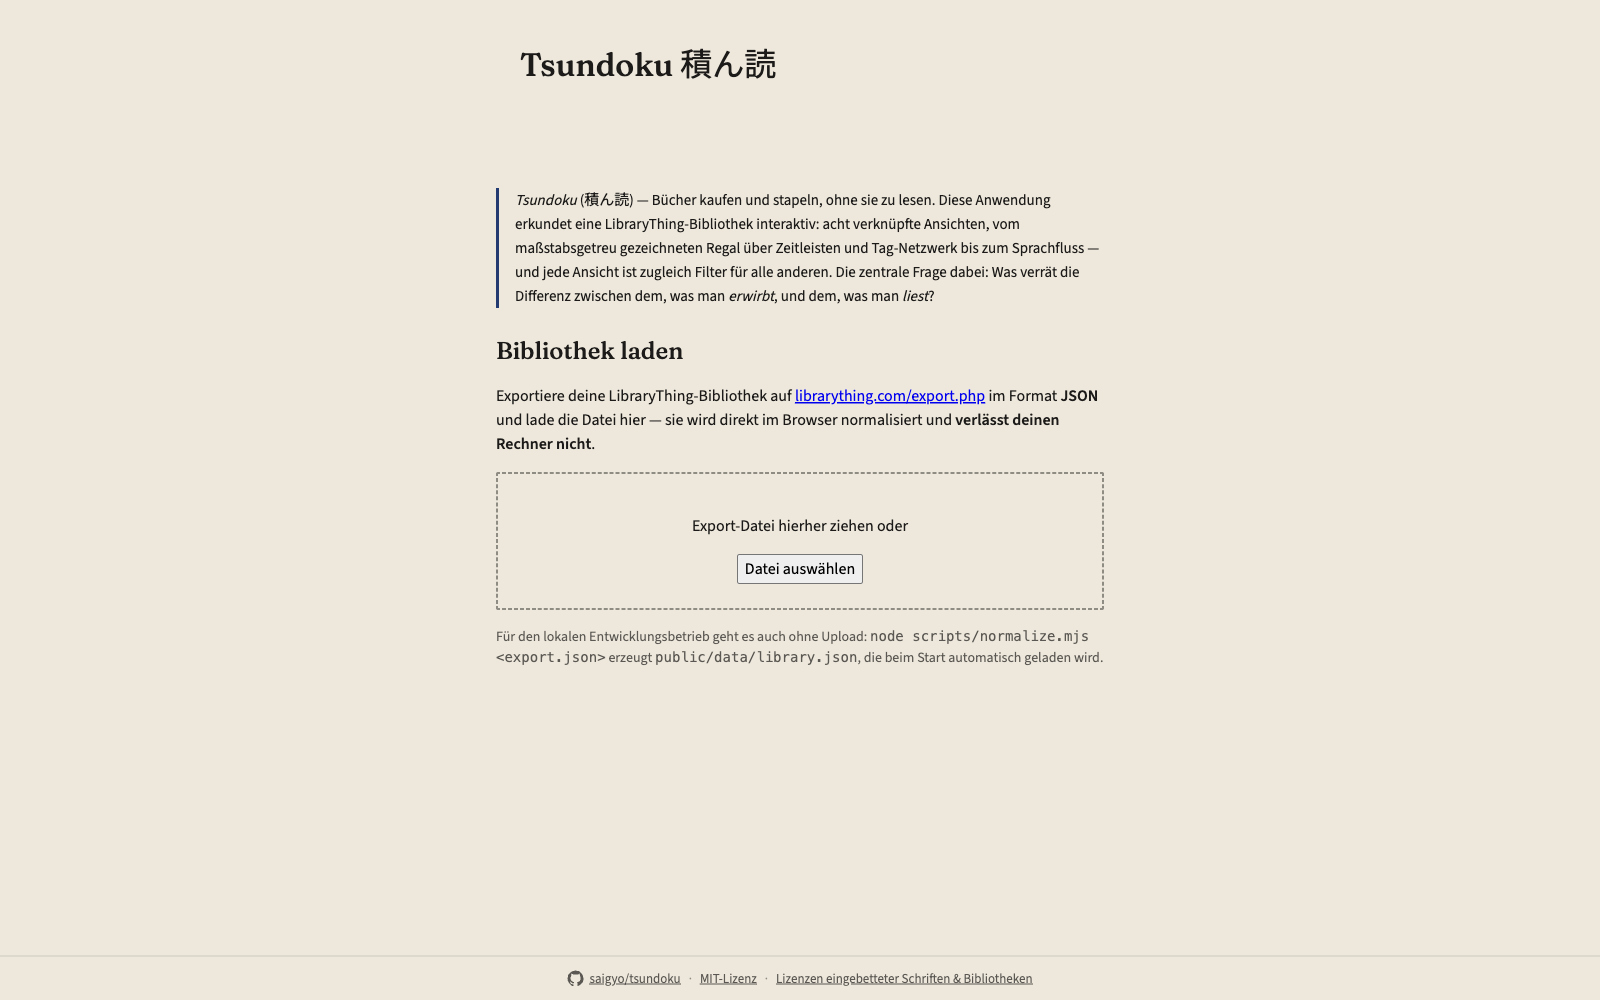
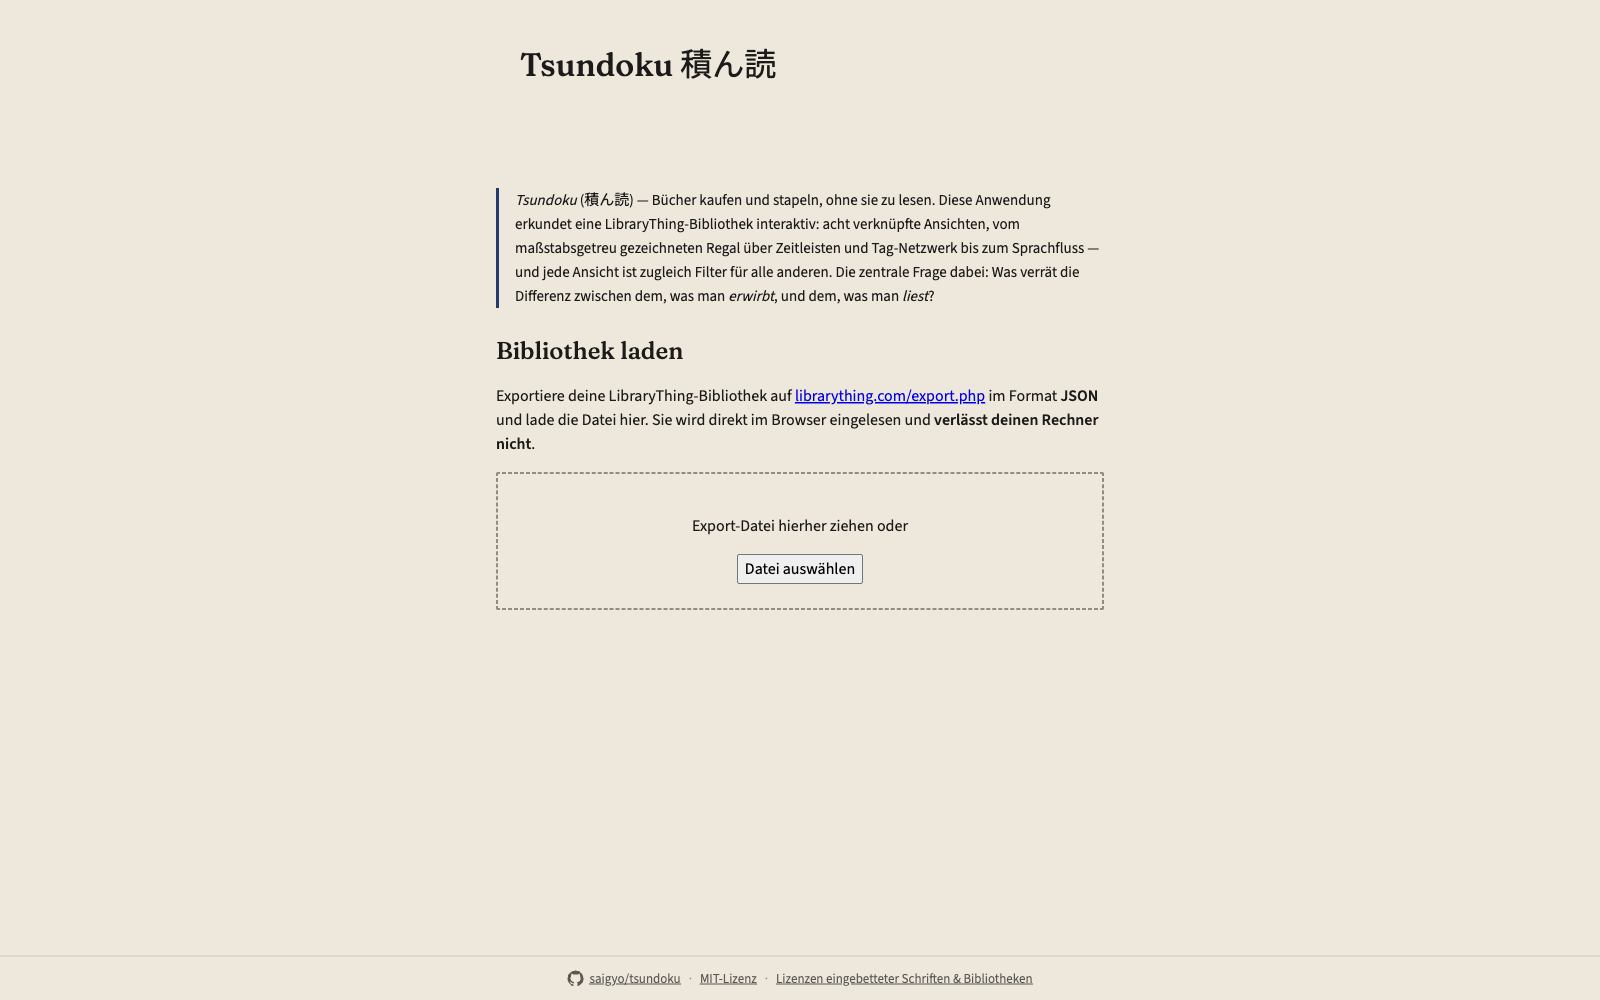
fix: Begrüßungsseite ohne Jargon und ohne Entwickler-Hinweis
'normalisiert' wird 'eingelesen'; der Hinweis auf den lokalen
Entwicklungsbetrieb entfällt — er steht in der README. Screenshot in
der README entsprechend erneuert.

Claude-Session: https://claude.ai/code/session_01F4fjRtBP7VWSwbD4CFKadP

Changed region(s): [[0.3125, 0.62, 0.6875, 0.682], [0.4062, 0.403, 0.6875, 0.434], [0.3125, 0.434, 0.375, 0.465]]

diff --git a/src/components/DataUpload.tsx b/src/components/DataUpload.tsx
@@ -135,8 +135,8 @@ export function DataUpload({
         <a href="https://www.librarything.com/export.php" target="_blank" rel="noopener noreferrer">
           librarything.com/export.php
         </a>{' '}
-        im Format <strong>JSON</strong> und lade die Datei hier — sie wird direkt im Browser
-        normalisiert und <strong>verlässt deinen Rechner nicht</strong>.
+        im Format <strong>JSON</strong> und lade die Datei hier. Sie wird direkt im Browser
+        eingelesen und <strong>verlässt deinen Rechner nicht</strong>.
       </p>
       <div
         className={dragOver ? styles.dropzoneActive : styles.dropzone}
@@ -178,11 +178,6 @@ export function DataUpload({
           Zurück zur geladenen Bibliothek
         </button>
       )}
-      <p className={styles.note}>
-        Für den lokalen Entwicklungsbetrieb geht es auch ohne Upload:{' '}
-        <code>node scripts/normalize.mjs &lt;export.json&gt;</code> erzeugt{' '}
-        <code>public/data/library.json</code>, die beim Start automatisch geladen wird.
-      </p>
     </div>
   )
 }
